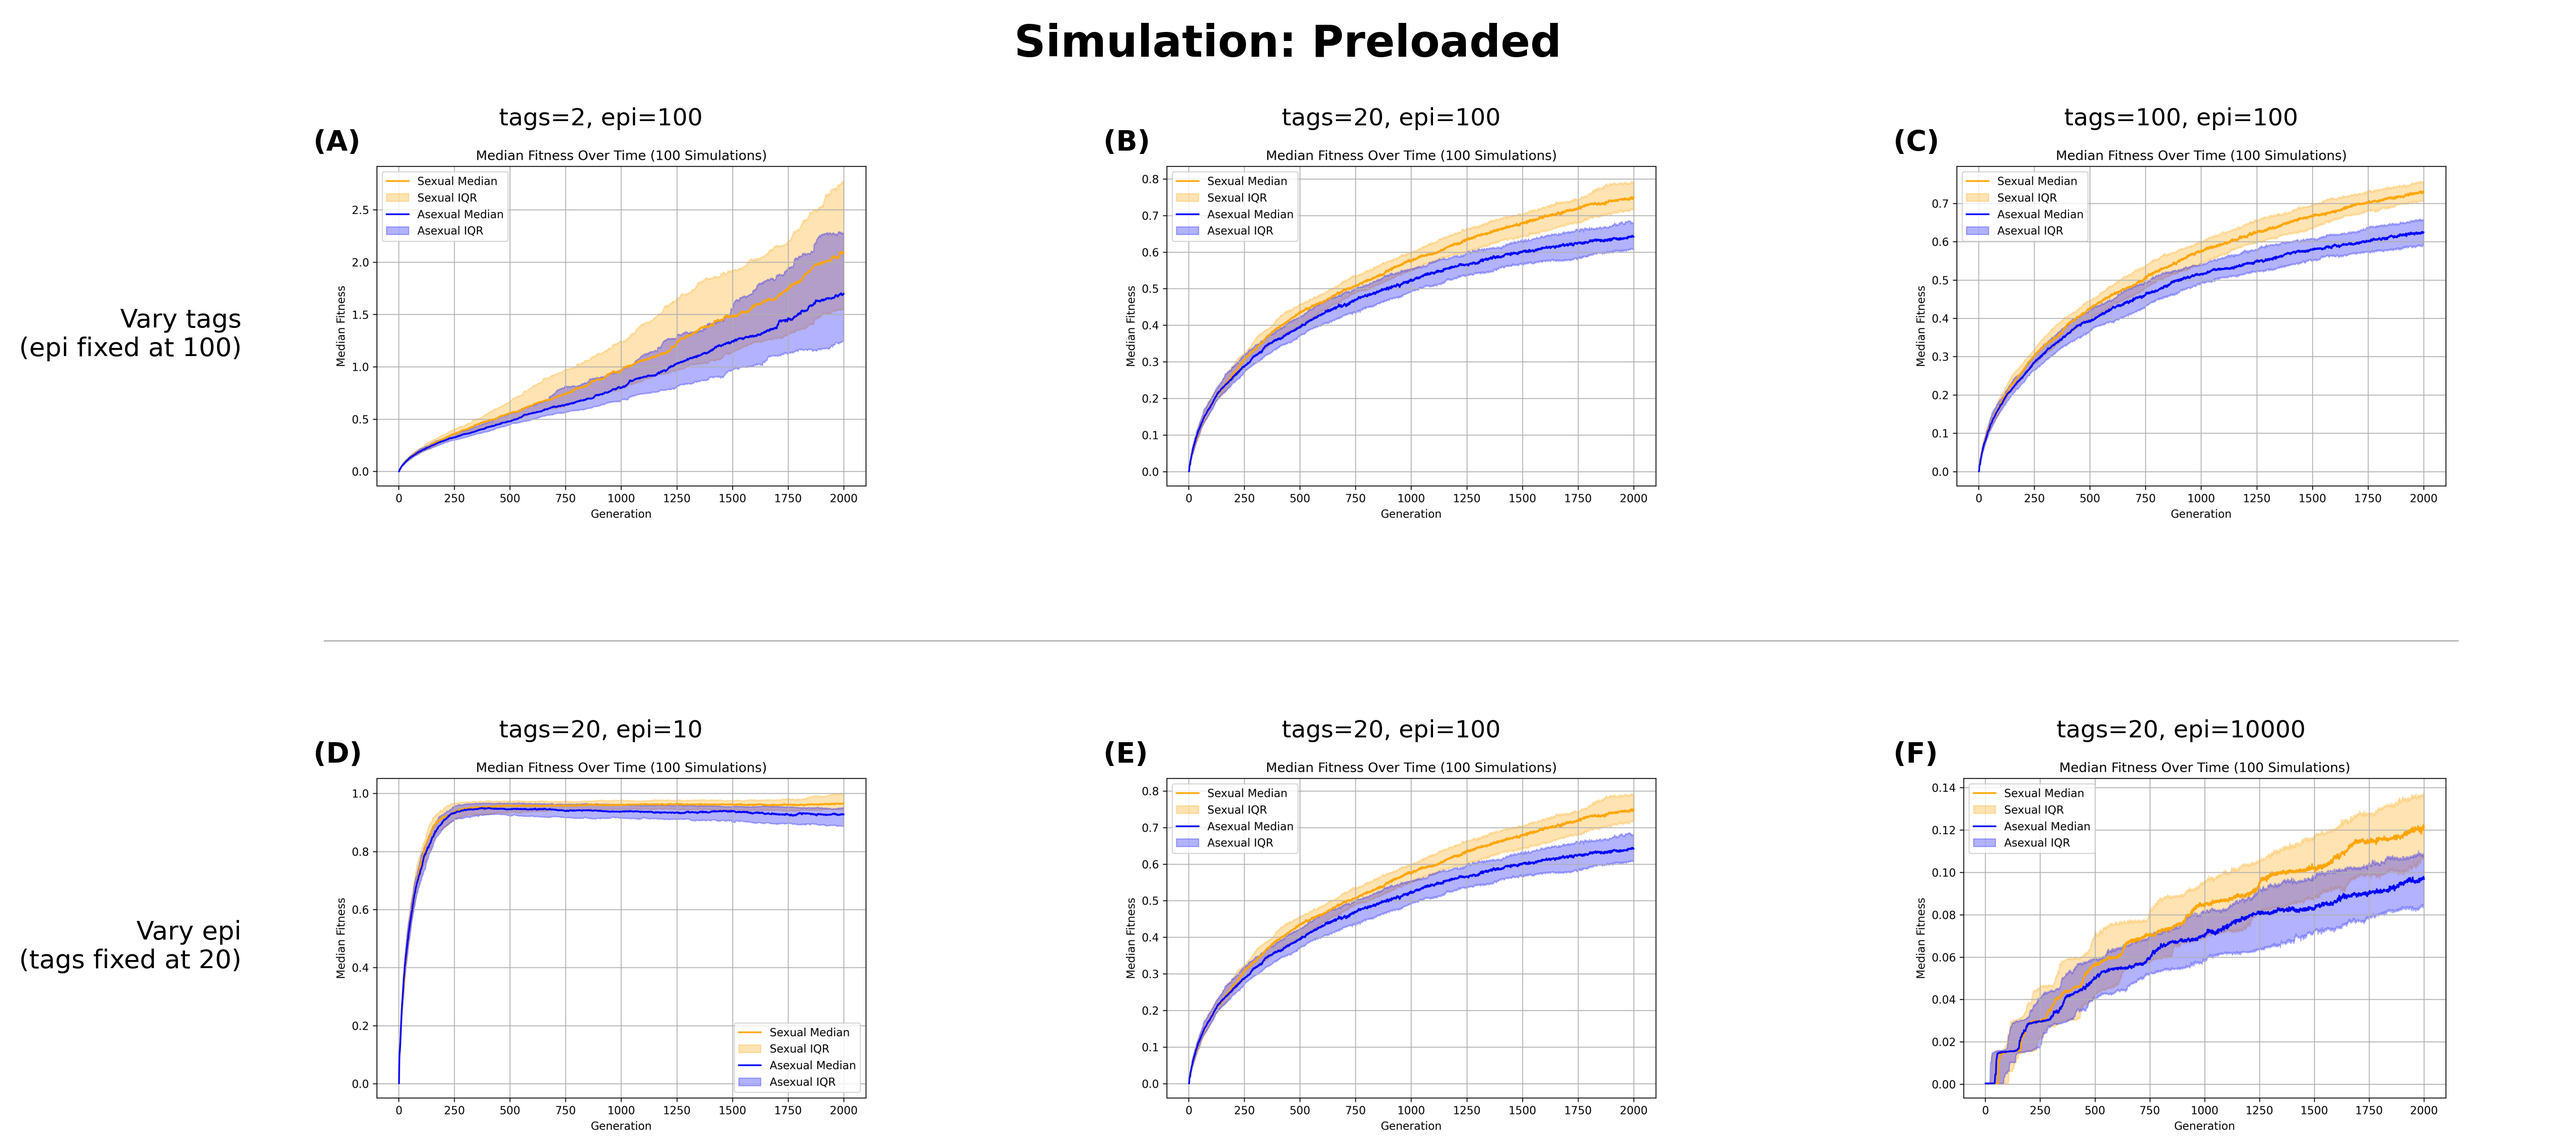
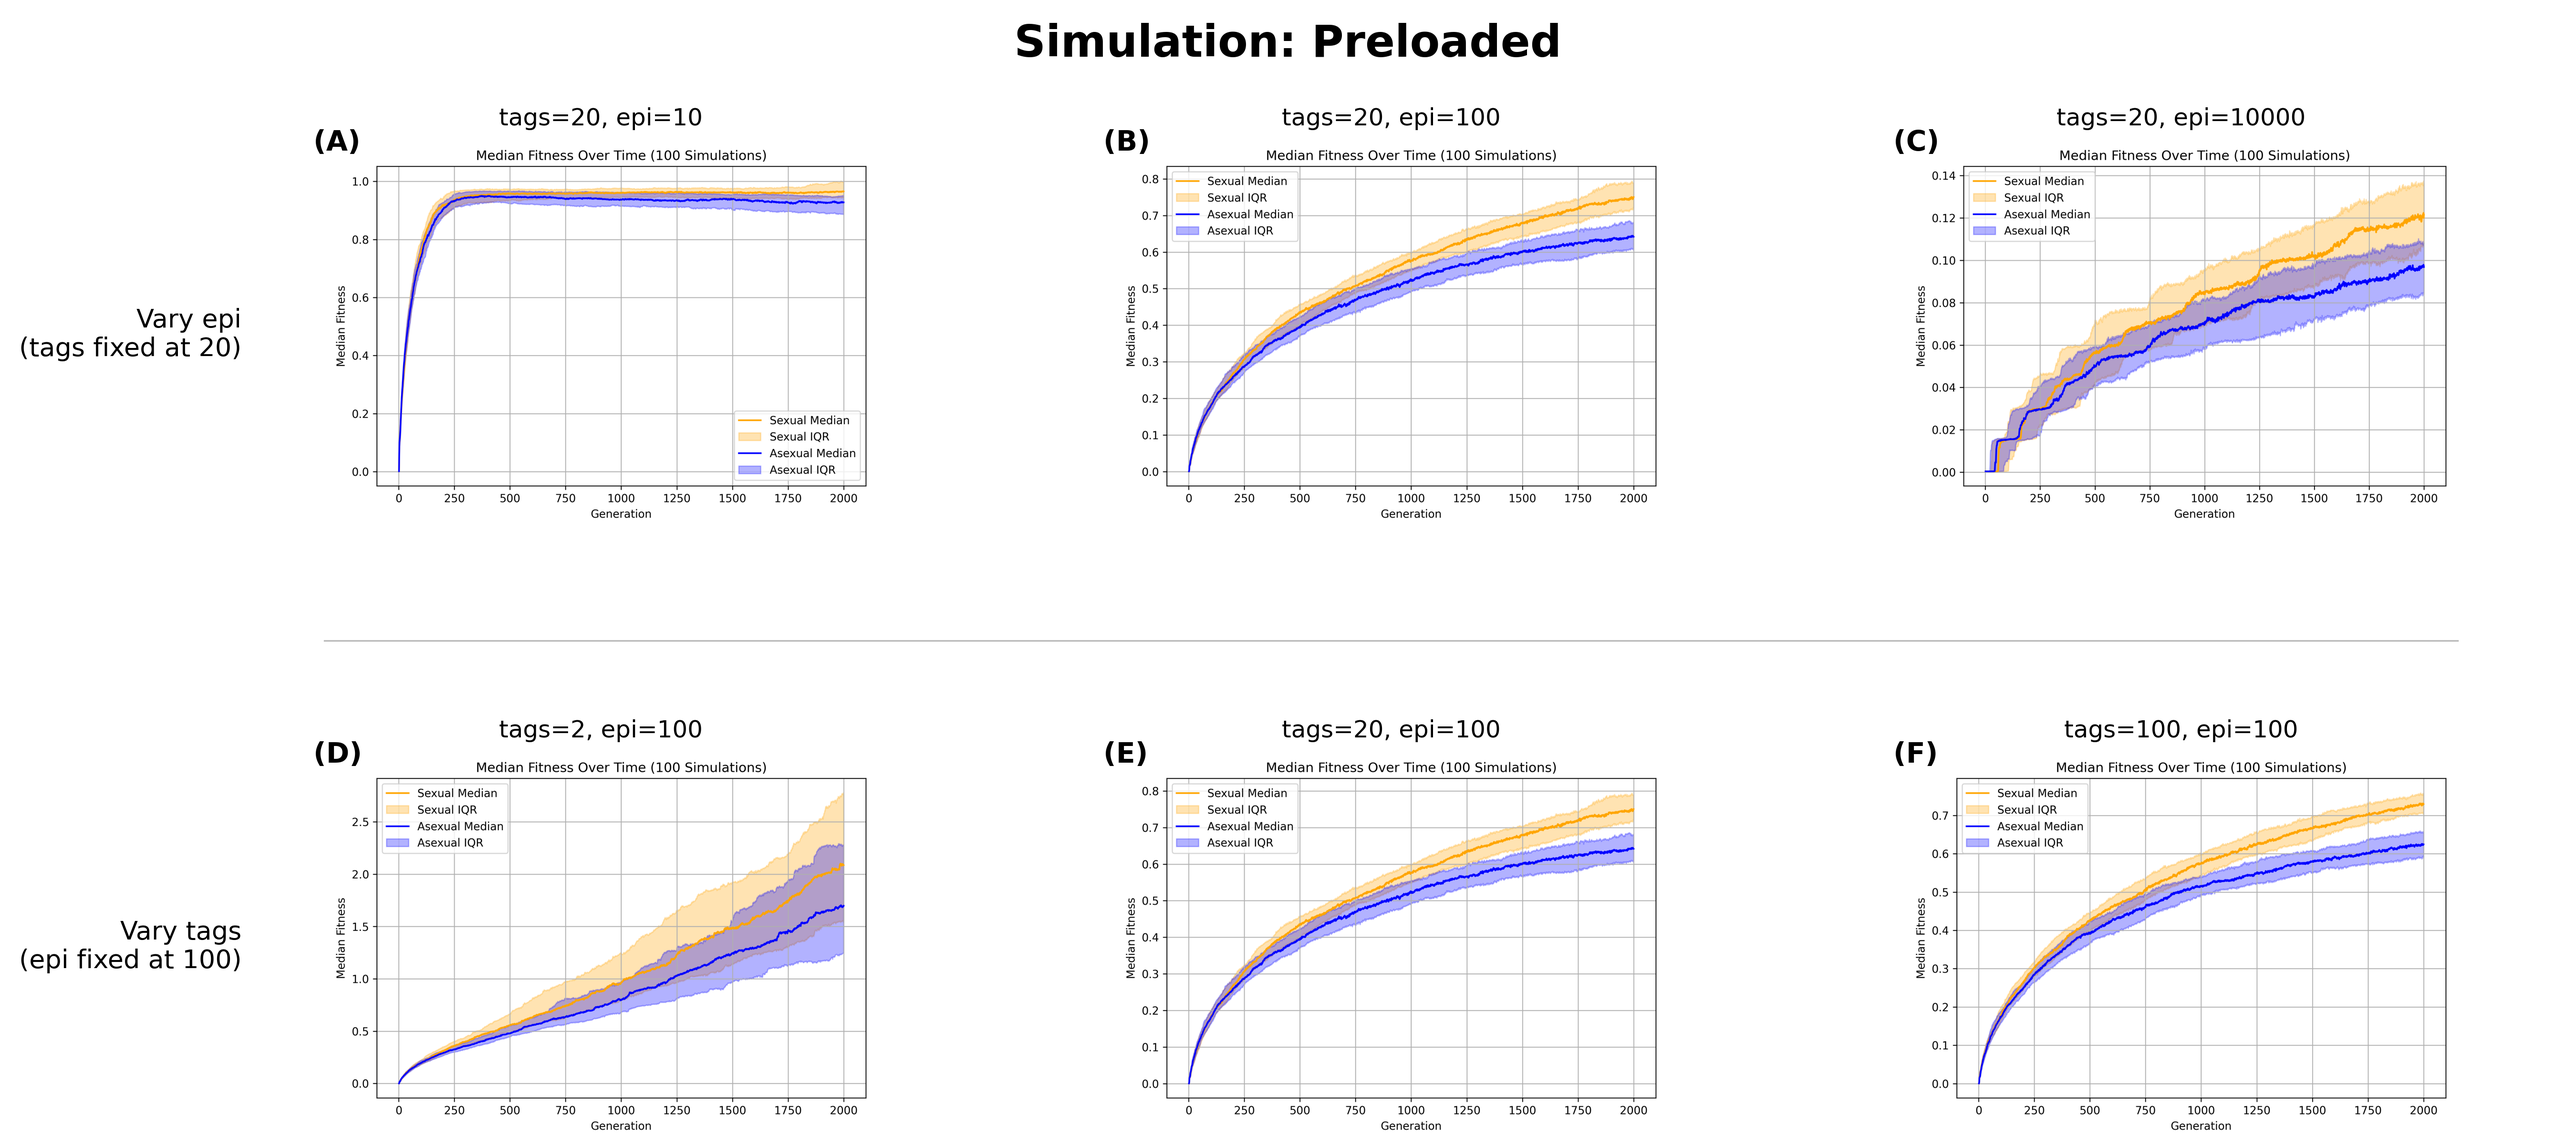
figure row swap

diff --git a/Simulation_Preload/make_figure_3.py b/Simulation_Preload/make_figure_3.py
@@ -29,18 +29,18 @@ Y_SHARE = False
 
 # --------------------------------------------
 # Layout: 2 rows x 3 cols
-# Row 0: vary tags while epi is fixed at 100
-# Row 1: vary epi while tags are fixed at 20
+# Row 0: vary epi while tags are fixed at 20
+# Row 1: vary tags while epi is fixed at 100
 # --------------------------------------------
 
 rows = [
-    [(2, 100), (20, 100), (100, 100)],
     [(20, 10), (20, 100), (20, 10000)],
+    [(2, 100), (20, 100), (100, 100)],
 ]
 
 row_labels = [
-    "Vary tags\n(epi fixed at 100)",
     "Vary epi\n(tags fixed at 20)",
+    "Vary tags\n(epi fixed at 100)",
 ]
 
 # Flat list of unique configs to generate
